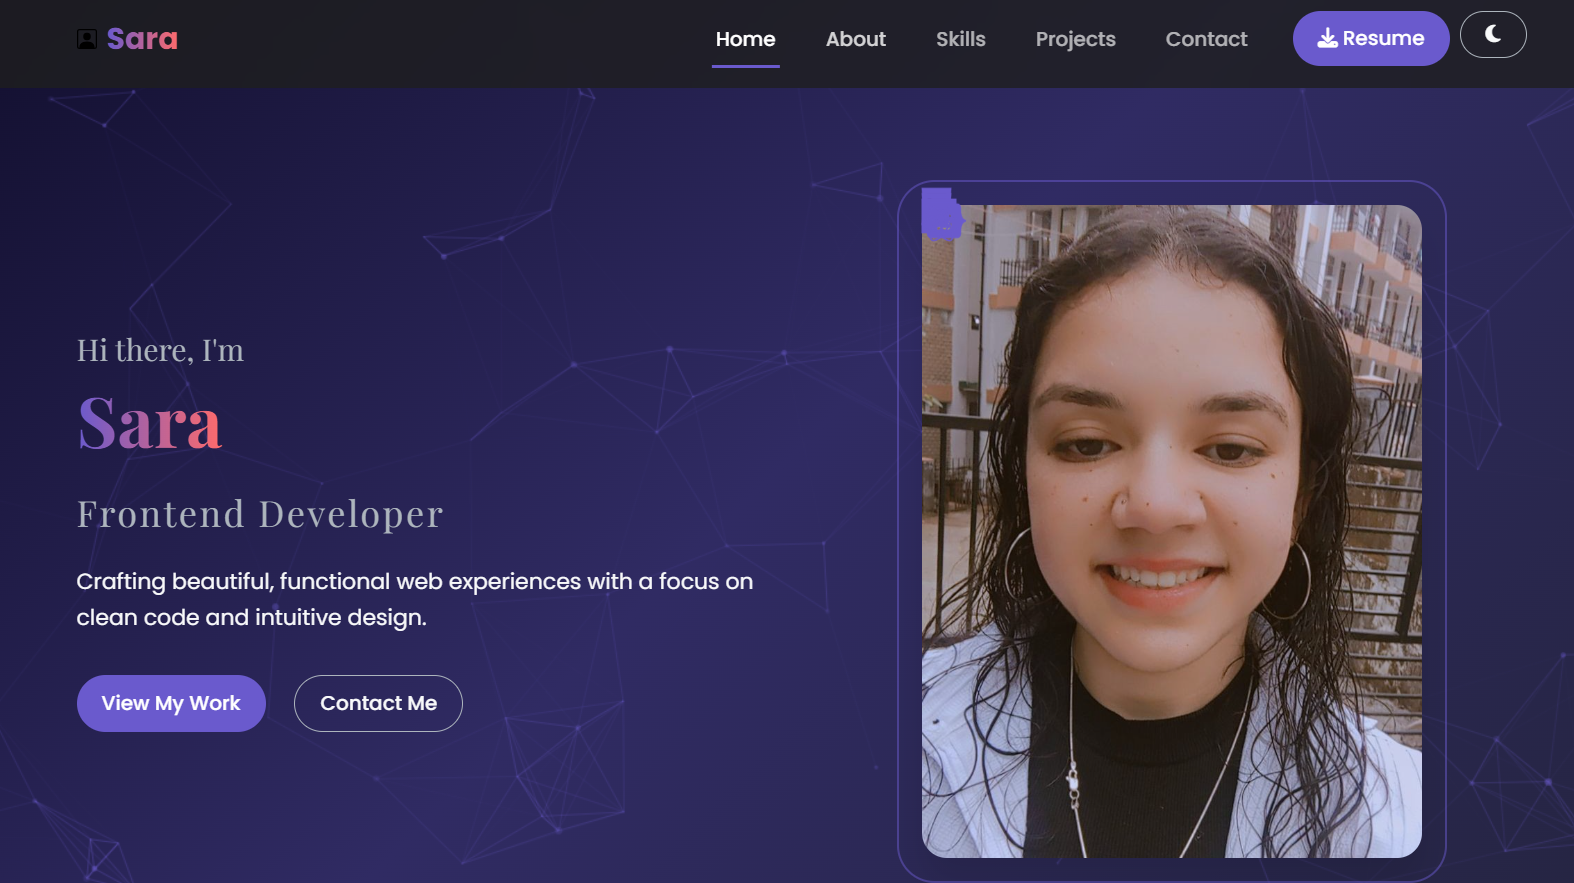
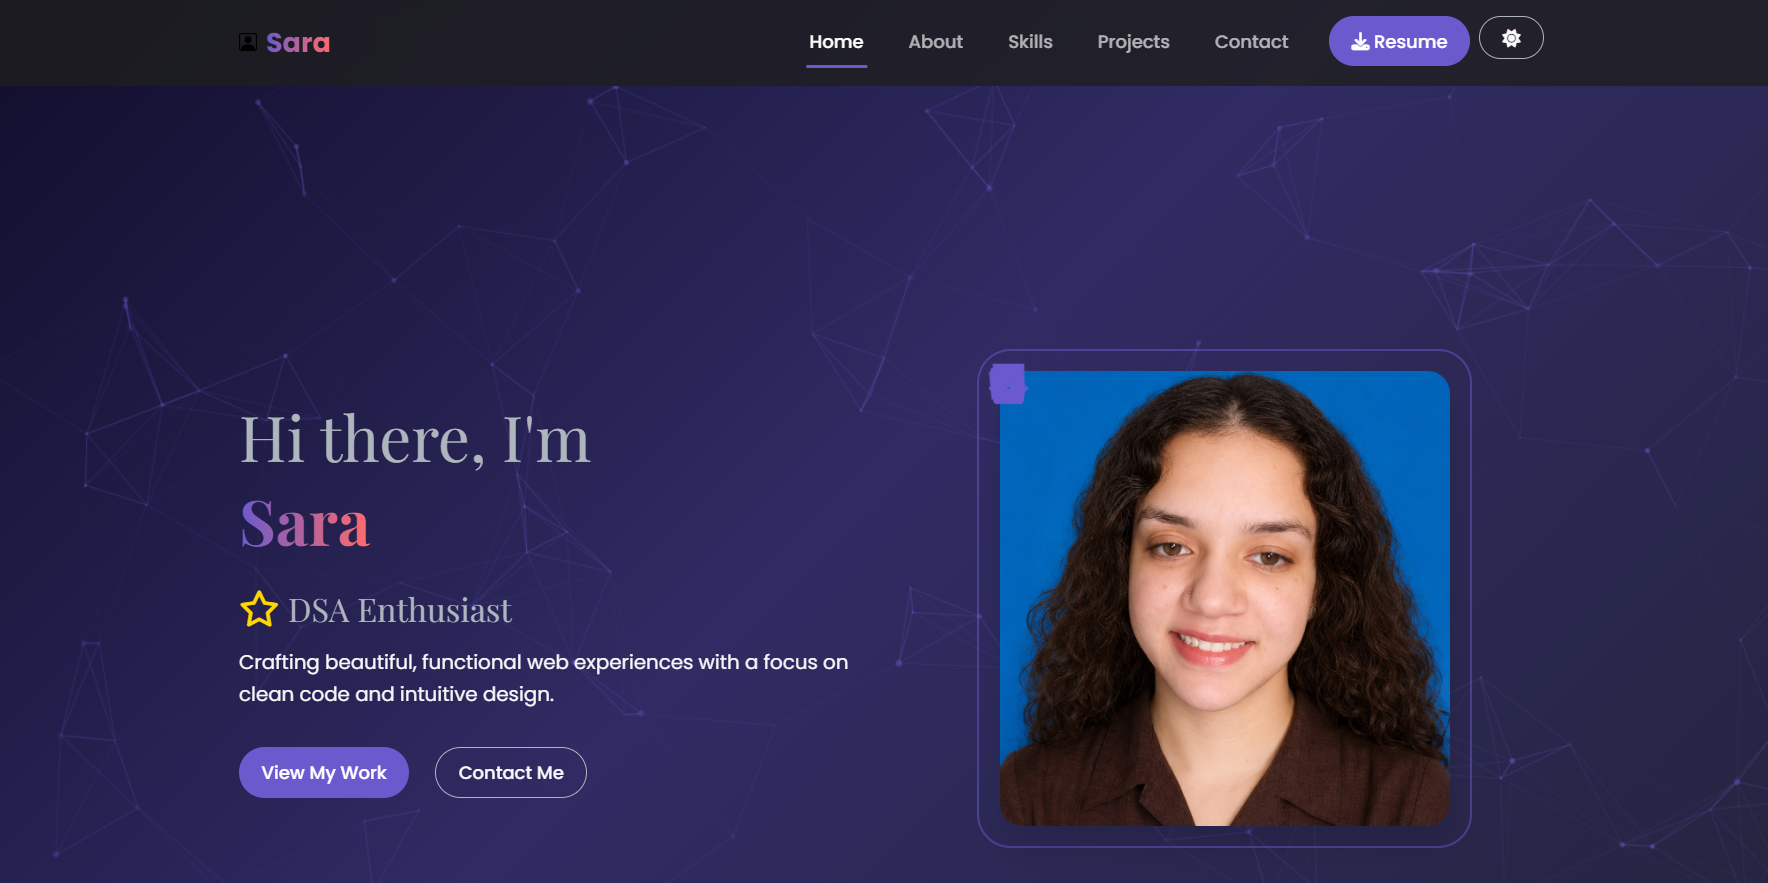
Update some information

diff --git a/index.html b/index.html
@@ -102,7 +102,7 @@
                     </div>
                     <div class="col-lg-6 d-none d-lg-block">
                         <div class="hero-image-container">
-                            <img src="assets/mypic.jpg" alt="Sara" class="hero-image">
+                            <img src="assets/mypic.png" alt="Sara" class="hero-image">
                             <div class="hero-image-border"></div>
                             <div class="tech-icons">
                                 <i class="fab fa-html5 " style="--i:1"></i>
@@ -127,7 +127,7 @@
                     <div class="col-lg-6">
                         <div class="about-content">
                             <h3 class="about-subtitle">Curious Coder & Creative Problem Solver</h3>
-                            <p>I'm a frontend developer in training with a dual focus: mastering Data Structures and
+                            <p>I'm a full stack developer in training with a dual focus: mastering Data Structures and
                                 Algorithms with C++ while simultaneously building my frontend development skills through
                                 hands-on projects.</p>
                             <p>My approach combines analytical thinking with creative problem-solving, allowing me to
@@ -166,12 +166,12 @@
                                         <i class="fas fa-graduation-cap me-2"></i>Education
                                     </button>
                                 </li>
-                                <!-- <li class="nav-item" role="presentation">
+                                <li class="nav-item" role="presentation">
                                     <button class="nav-link" id="experience-tab" data-bs-toggle="pill"
                                         data-bs-target="#experience" type="button">
                                         <i class="fas fa-briefcase me-2"></i>Experience
                                     </button>
-                                </li> -->
+                                </li>
                                 <li class="nav-item" role="presentation">
                                     <button class="nav-link" id="hobbies-tab" data-bs-toggle="pill"
                                         data-bs-target="#hobbies" type="button">
@@ -196,13 +196,13 @@
                                         </div>
                                     </div>
                                 </div>
-                                <!-- <div class="tab-pane fade" id="experience" role="tabpanel">
+                                <div class="tab-pane fade" id="experience" role="tabpanel">
                                     <div class="timeline">
                                         <div class="timeline-item">
-                                            <h4>Freelance Developer</h4>
-                                            <h5>2023-Present</h5>
-                                            <p>Building websites and web applications for clients while continuously
-                                                improving my skills.</p>
+                                            <h4>ISG Intern - Dell Technologies</h4>
+                                            <h5>1 June 2026 - 31 July 2026</h5>
+                                            <p>Implemented NAS Backup Continuity for PowerStore failover in Metro Cluster environments using Spec-Driven
+                                            Development.</p>
                                         </div>
                                         <div class="timeline-item">
                                             <h4>Open Source Contributor</h4>
@@ -211,7 +211,7 @@
                                                 development experience.</p>
                                         </div>
                                     </div>
-                                </div> -->
+                                </div>
                                 <div class="tab-pane fade" id="hobbies" role="tabpanel">
                                     <div class="hobbies-grid">
                                         <div class="hobby-item">
